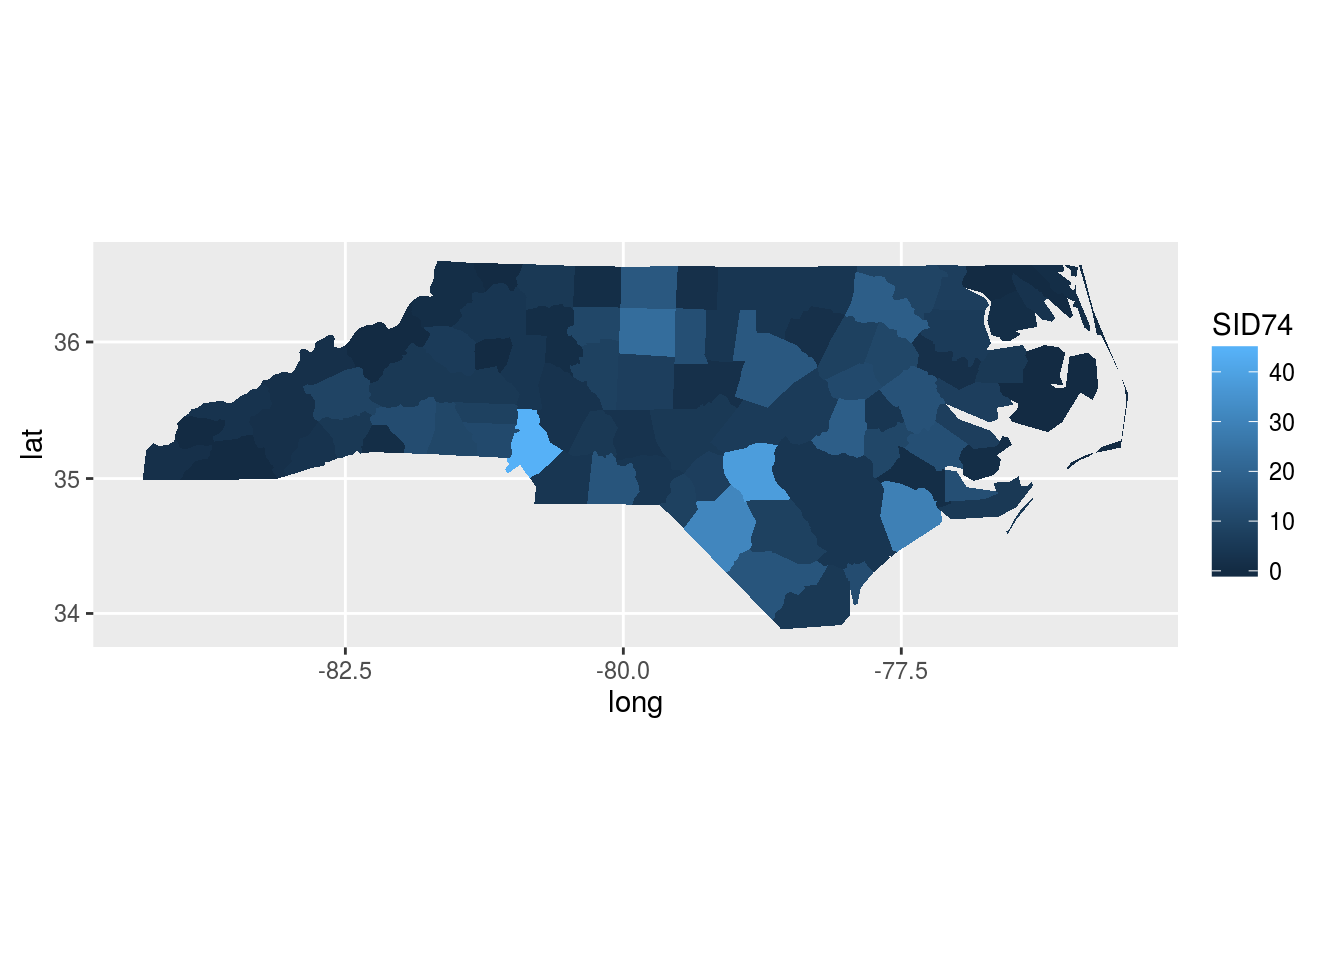
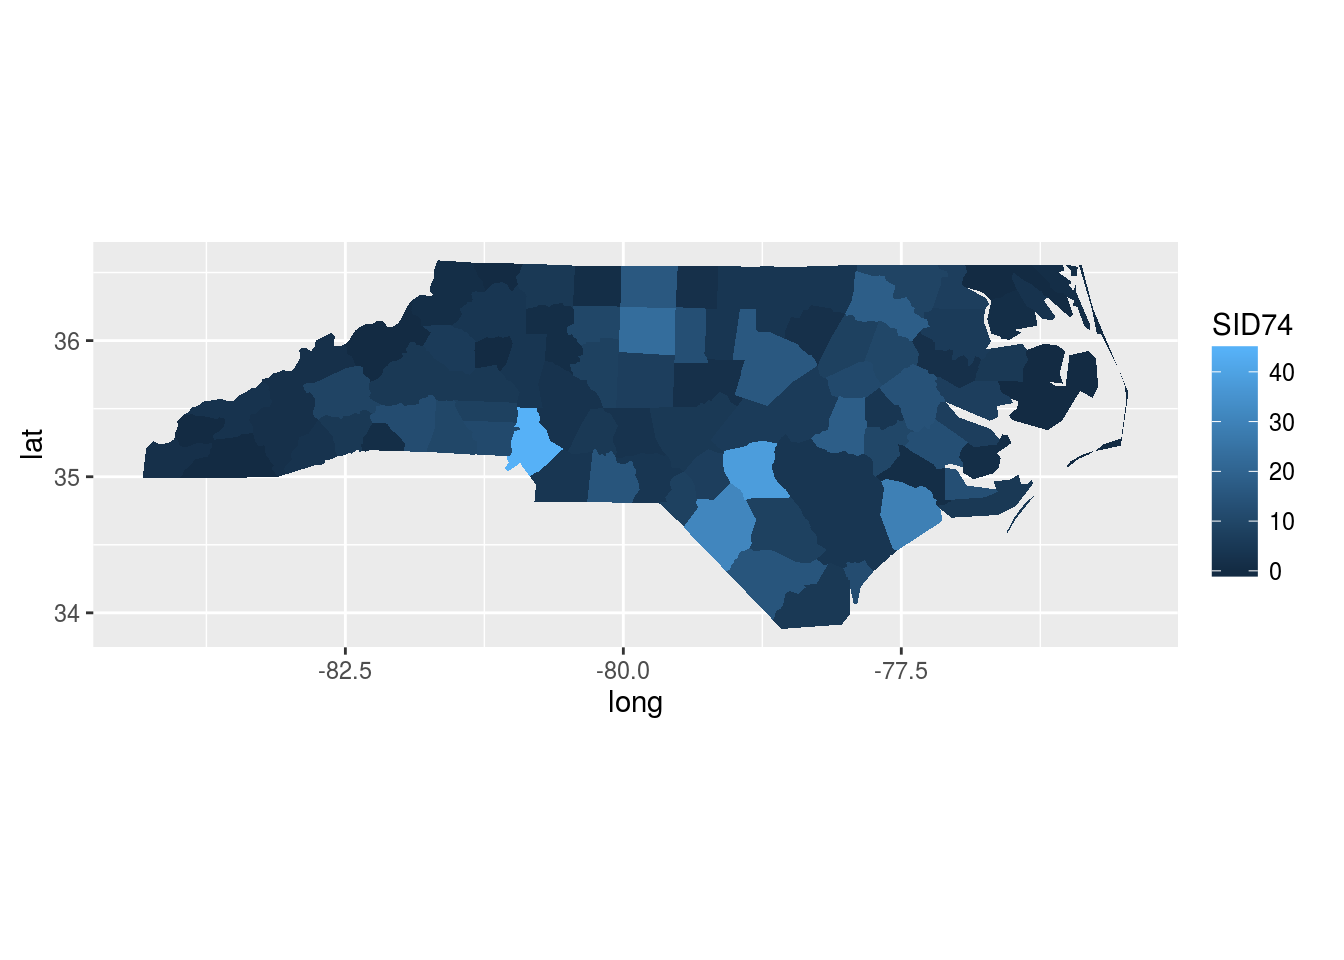
update

Changed region(s): [[0.7188, 0.5, 0.75, 0.5312], [0.0312, 0.4688, 0.0625, 0.5], [0.0312, 0.3438, 0.0625, 0.375]]

diff --git a/index.html b/index.html
@@ -523,13 +523,13 @@ plot(spTransform(norway, merc), bgMap = NorwayMap, border = &#39;red&#39;)</code
 <pre class="r"><code>library(ggplot2)
 f = fortify(nc, region = &quot;CNTY_ID&quot;) 
 ff = merge(f, nc@data, by.x = &quot;id&quot;, by.y = &quot;CNTY_ID&quot;) # this replicates a lot of info</code></pre>
-<p>next, we can plot the data, but if we want one distance unit north to approximately match one unit east, we additionally need to set <code>coord_map()</code> to instruct <code>ggplot</code> this concerns longitude/latitude coordinates:</p>
+<p>next, we can plot the data, but if we want one distance unit north to approximately match one unit east, we additionally need to set <code>coord_map()</code> or <code>coord_quickmap()</code> to instruct <code>ggplot</code> this concerns longitude/latitude coordinates (not stating the datum). <code>coord_map()</code> projects to mercator (by default), <code>coord_quickmap()</code> computes a suitable aspect ratio and plots degrees.</p>
 <pre class="r"><code>ggplot(ff) + 
     aes(long, lat, group = group, fill = SID74) + 
     geom_polygon() + 
-    coord_map()</code></pre>
+    coord_quickmap()</code></pre>
 <p><img src="sp_gallery_files/figure-html/unnamed-chunk-36-1.png" title="" alt="" width="672" /></p>
-<p>Bubble plots can be generated e.g. by</p>
+<p>Bubble plots can be generated through <code>ggplot</code> by</p>
 <pre class="r"><code>ggplot(as.data.frame(meuse)) + 
     aes(x, y, size = zinc) + 
     geom_point() +
@@ -547,9 +547,9 @@ ff = merge(f, nc@data, by.x = &quot;id&quot;, by.y = &quot;CNTY_ID&quot;) # this
 <p>R packages leaflet and mapview provide interactive, browser-based maps building upon the leaflet javascript library. An example is:</p>
 <pre class="r"><code>library(mapview)</code></pre>
 <pre><code>## Loading required package: leaflet</code></pre>
-<pre class="r"><code>mapview(meuse.grid, zcol = &quot;soil&quot;)@map</code></pre>
+<pre class="r"><code>mapview(meuse.grid, zcol = c(&quot;soil&quot;, &quot;dist&quot;))@map</code></pre>
 <p><div id="htmlwidget-3685" style="width:672px;height:480px;" class="leaflet"></div>
[2 lines of base64/hex data omitted]
 <p>more examples are found <a href="https://environmentalinformatics-marburg.github.io/web-presentations/20150723_mapView.html">here</a>.</p>
 </div>
 <div id="sessioninfo" class="section level2">
@@ -571,7 +571,7 @@ ff = merge(f, nc@data, by.x = &quot;id&quot;, by.y = &quot;CNTY_ID&quot;) # this
 ## [1] methods   stats     graphics  grDevices utils     datasets  base     
 ## 
 ## other attached packages:
-##  [1] mapview_1.0.0       leaflet_1.0.0       cshapes_0.4-2      
+##  [1] mapview_1.0.1       leaflet_1.0.0       cshapes_0.4-2      
 ##  [4] plyr_1.8.3          RgoogleMaps_1.2.0.7 ggmap_2.5.2        
 ##  [7] ggplot2_2.0.0       RColorBrewer_1.1-2  gstat_1.1-1        
 ## [10] rgeos_0.3-16        maps_3.0.1          rgdal_1.1-3        

diff --git a/sp_gallery.html b/sp_gallery.html
@@ -523,13 +523,13 @@ plot(spTransform(norway, merc), bgMap = NorwayMap, border = &#39;red&#39;)</code
 <pre class="r"><code>library(ggplot2)
 f = fortify(nc, region = &quot;CNTY_ID&quot;) 
 ff = merge(f, nc@data, by.x = &quot;id&quot;, by.y = &quot;CNTY_ID&quot;) # this replicates a lot of info</code></pre>
-<p>next, we can plot the data, but if we want one distance unit north to approximately match one unit east, we additionally need to set <code>coord_map()</code> to instruct <code>ggplot</code> this concerns longitude/latitude coordinates:</p>
+<p>next, we can plot the data, but if we want one distance unit north to approximately match one unit east, we additionally need to set <code>coord_map()</code> or <code>coord_quickmap()</code> to instruct <code>ggplot</code> this concerns longitude/latitude coordinates (not stating the datum). <code>coord_map()</code> projects to mercator (by default), <code>coord_quickmap()</code> computes a suitable aspect ratio and plots degrees.</p>
 <pre class="r"><code>ggplot(ff) + 
     aes(long, lat, group = group, fill = SID74) + 
     geom_polygon() + 
-    coord_map()</code></pre>
+    coord_quickmap()</code></pre>
 <p><img src="sp_gallery_files/figure-html/unnamed-chunk-36-1.png" title="" alt="" width="672" /></p>
-<p>Bubble plots can be generated e.g. by</p>
+<p>Bubble plots can be generated through <code>ggplot</code> by</p>
 <pre class="r"><code>ggplot(as.data.frame(meuse)) + 
     aes(x, y, size = zinc) + 
     geom_point() +
@@ -547,9 +547,9 @@ ff = merge(f, nc@data, by.x = &quot;id&quot;, by.y = &quot;CNTY_ID&quot;) # this
 <p>R packages leaflet and mapview provide interactive, browser-based maps building upon the leaflet javascript library. An example is:</p>
 <pre class="r"><code>library(mapview)</code></pre>
 <pre><code>## Loading required package: leaflet</code></pre>
-<pre class="r"><code>mapview(meuse.grid, zcol = &quot;soil&quot;)@map</code></pre>
+<pre class="r"><code>mapview(meuse.grid, zcol = c(&quot;soil&quot;, &quot;dist&quot;))@map</code></pre>
 <p><div id="htmlwidget-3685" style="width:672px;height:480px;" class="leaflet"></div>
[2 lines of base64/hex data omitted]
 <p>more examples are found <a href="https://environmentalinformatics-marburg.github.io/web-presentations/20150723_mapView.html">here</a>.</p>
 </div>
 <div id="sessioninfo" class="section level2">
@@ -571,7 +571,7 @@ ff = merge(f, nc@data, by.x = &quot;id&quot;, by.y = &quot;CNTY_ID&quot;) # this
 ## [1] methods   stats     graphics  grDevices utils     datasets  base     
 ## 
 ## other attached packages:
-##  [1] mapview_1.0.0       leaflet_1.0.0       cshapes_0.4-2      
+##  [1] mapview_1.0.1       leaflet_1.0.0       cshapes_0.4-2      
 ##  [4] plyr_1.8.3          RgoogleMaps_1.2.0.7 ggmap_2.5.2        
 ##  [7] ggplot2_2.0.0       RColorBrewer_1.1-2  gstat_1.1-1        
 ## [10] rgeos_0.3-16        maps_3.0.1          rgdal_1.1-3        
